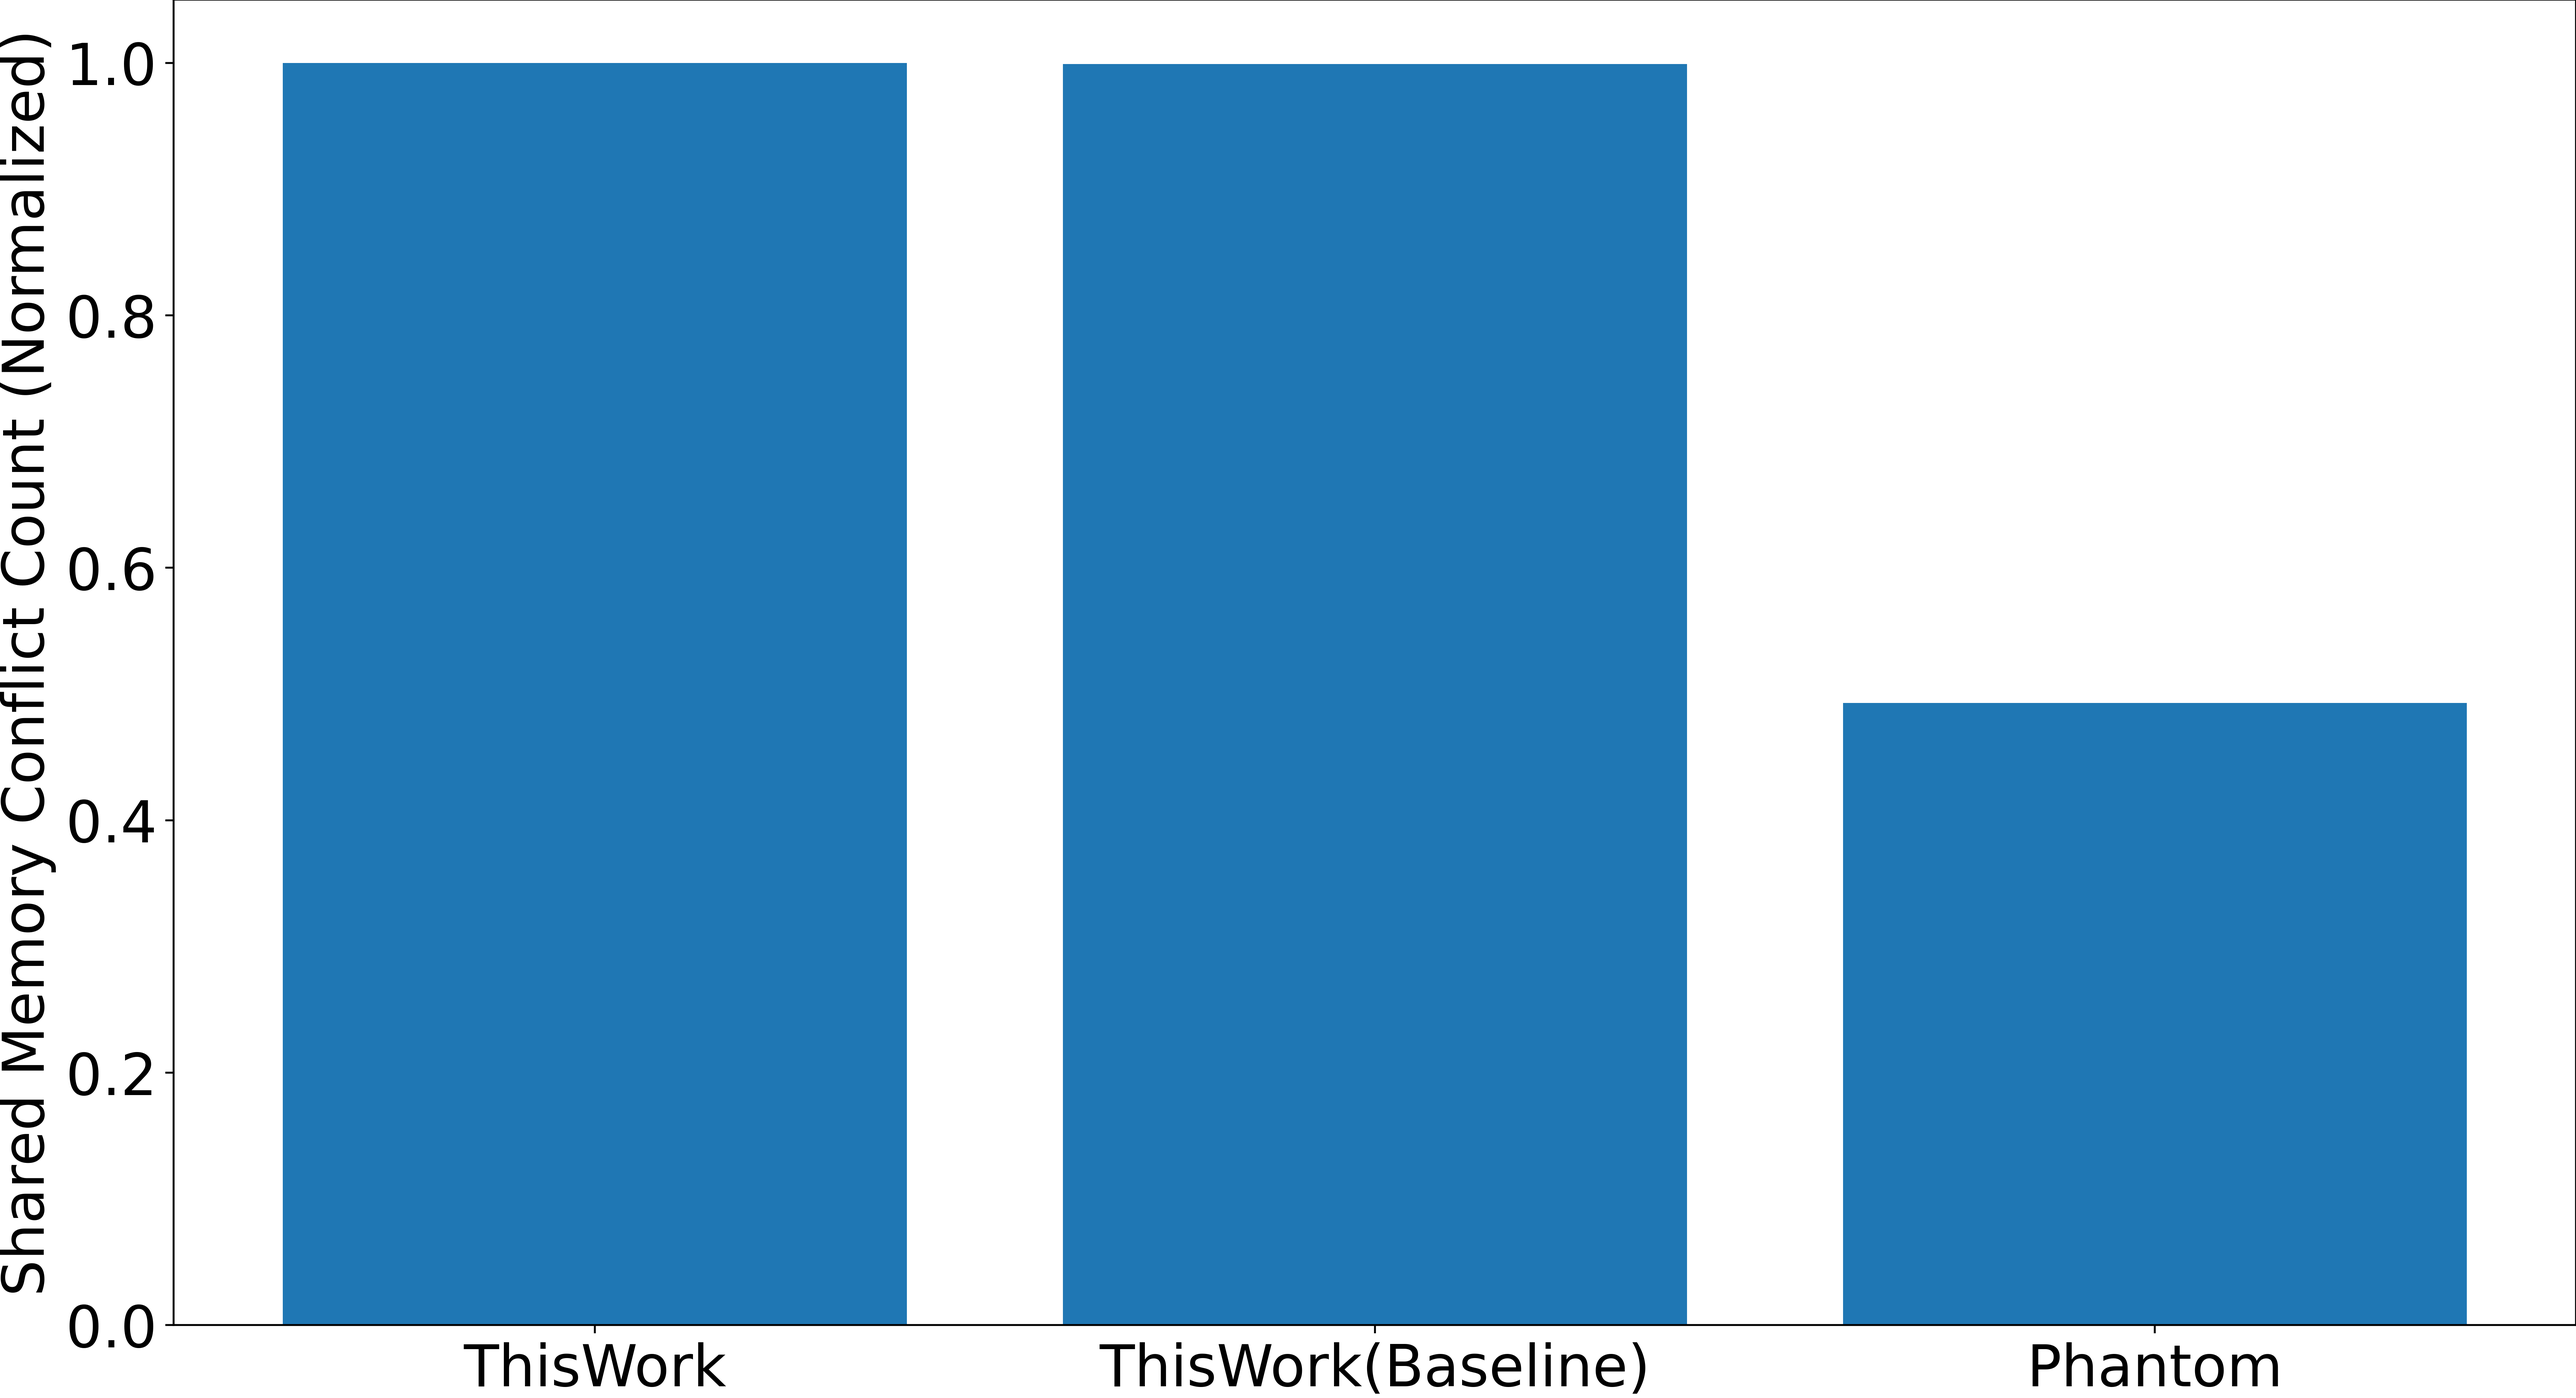
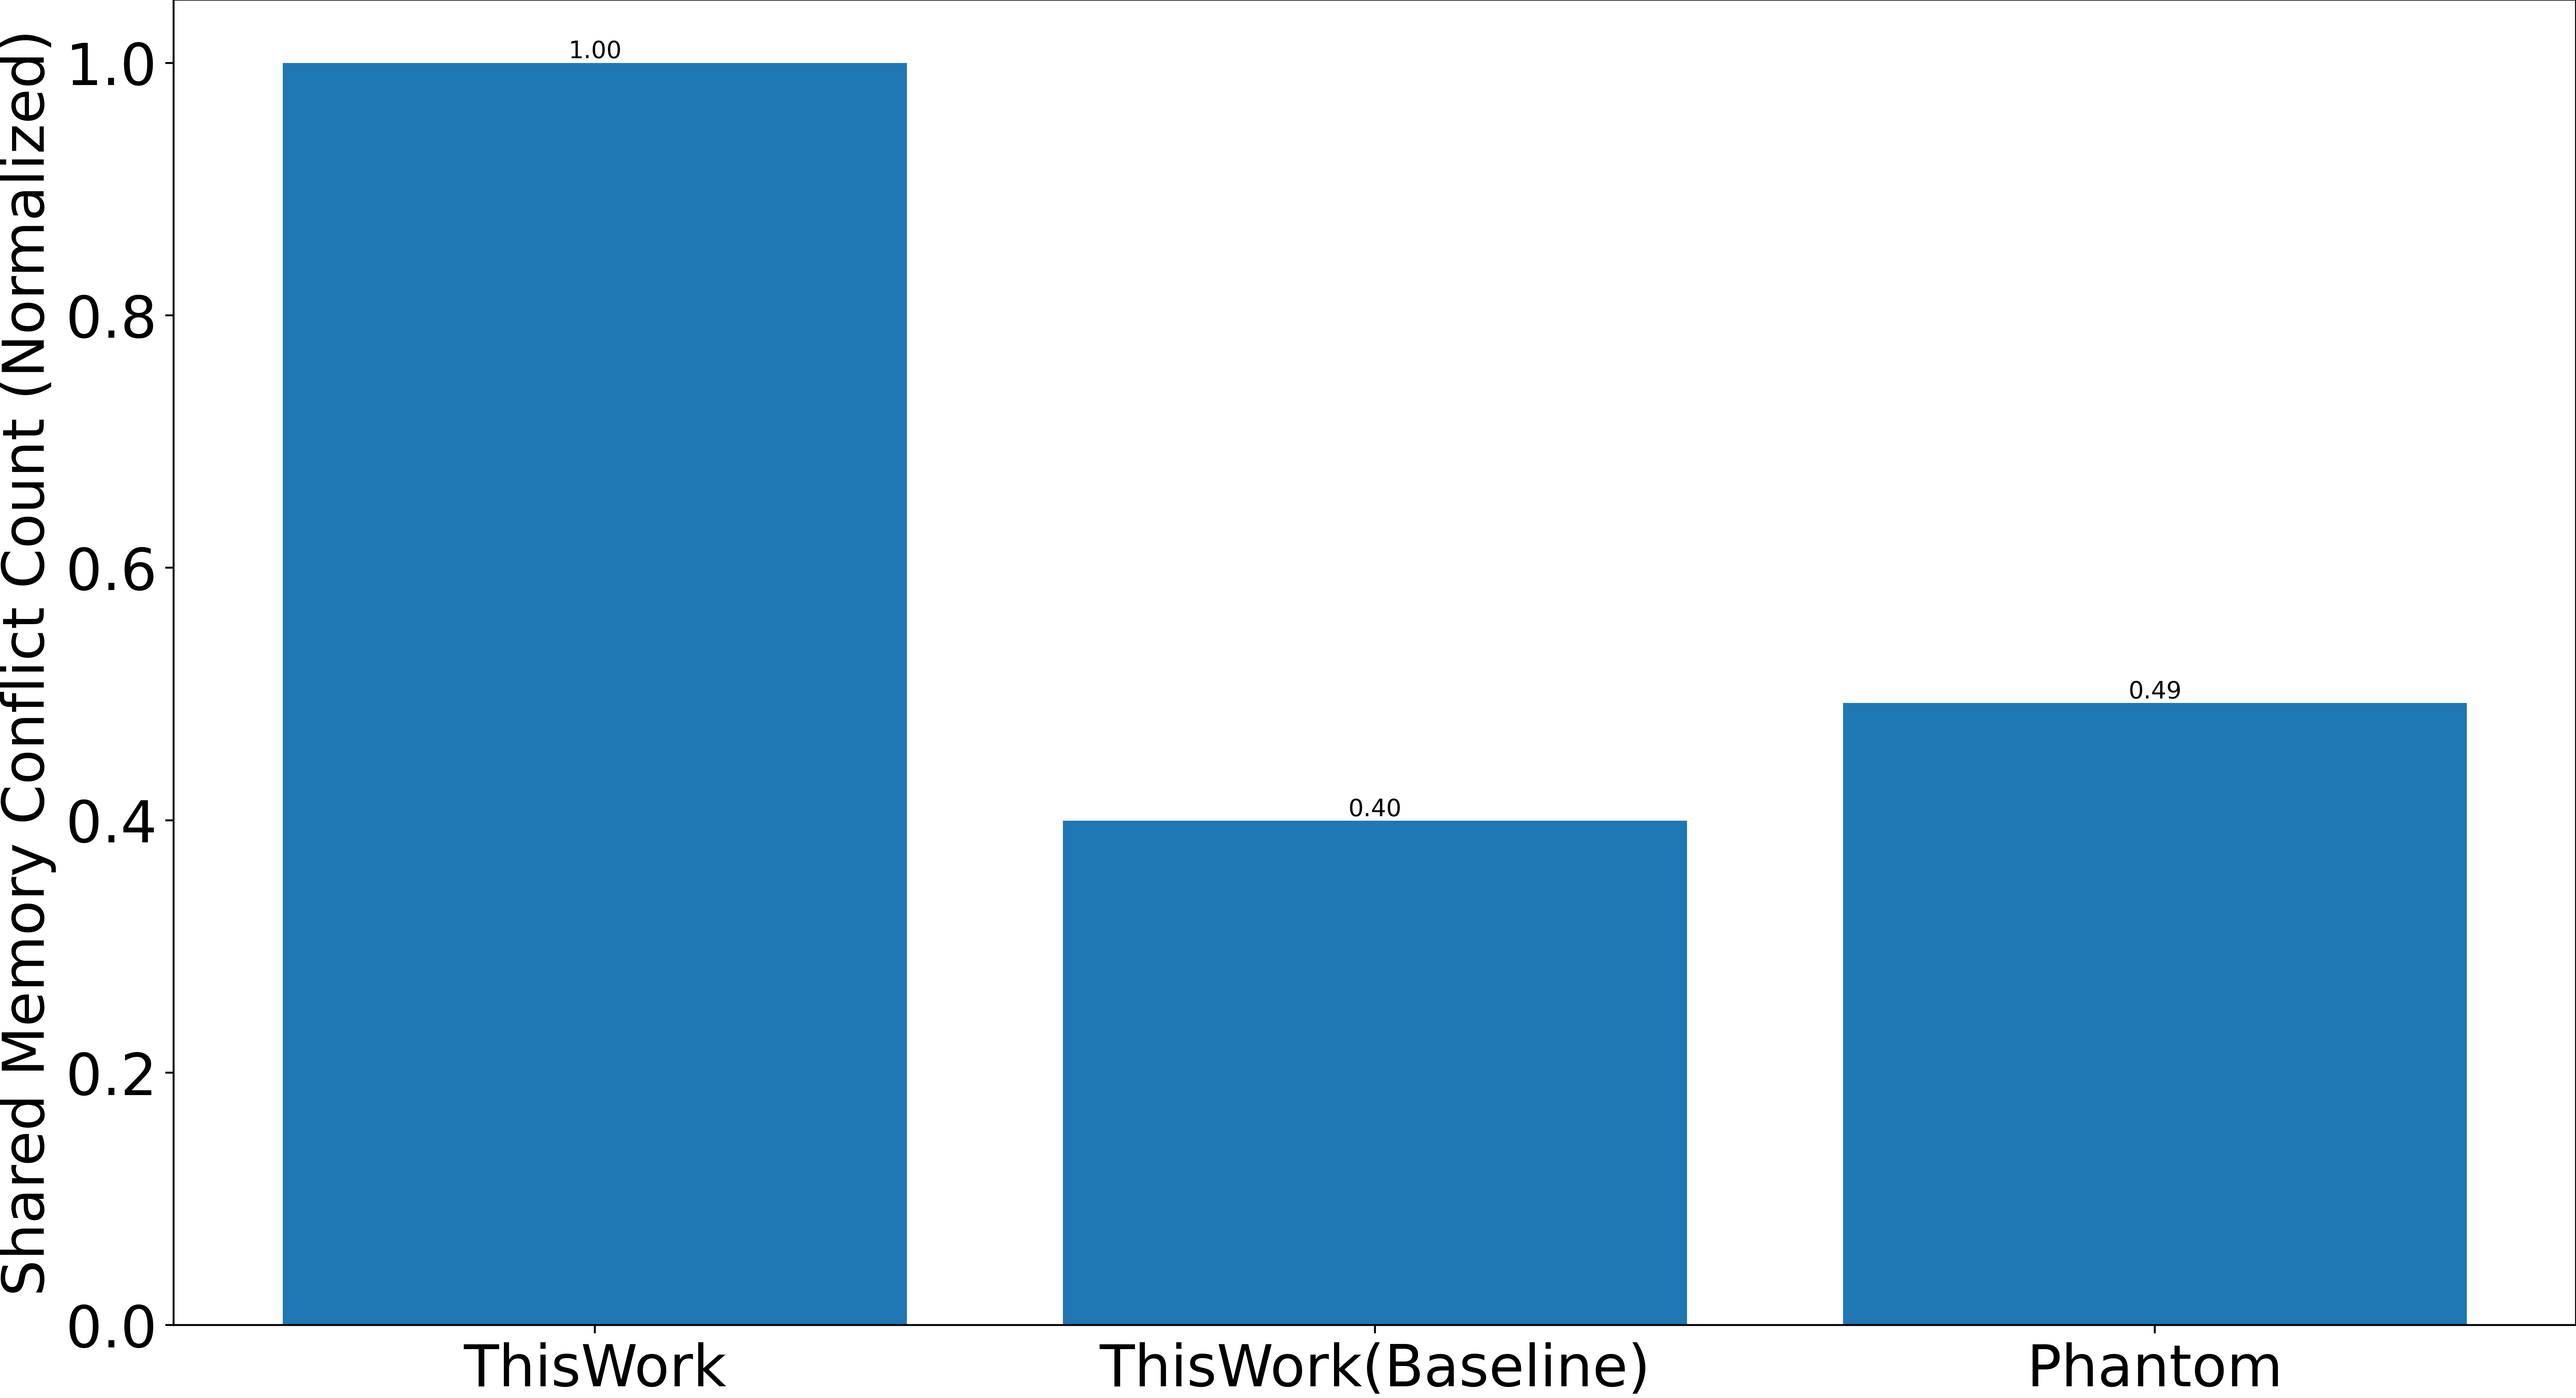
add smem conflict

Changed region(s): [[0.405, 0.031, 0.6542, 0.5895]]

diff --git a/profile/plot-smem-conflict.py b/profile/plot-smem-conflict.py
@@ -80,6 +80,7 @@ print(f"(Phantom - ThisWork) / Phantom = {(result[2] - result[0]) / result[2] * 
 print(f"(Baseline - ThisWork) / Baseline = {(result[1] - result[0]) / result[1] * 100:.2f}%")
 
 ax.bar(candidates, result, color='tab:blue')
+ax.bar_label(ax.containers[0], fmt='%.2f')
 ax.set_ylabel("Shared Memory Conflict Count (Normalized)", fontsize=24)
 ax.tick_params(axis='y', labelsize=24)
 ax.tick_params(axis='x', labelsize=24)
